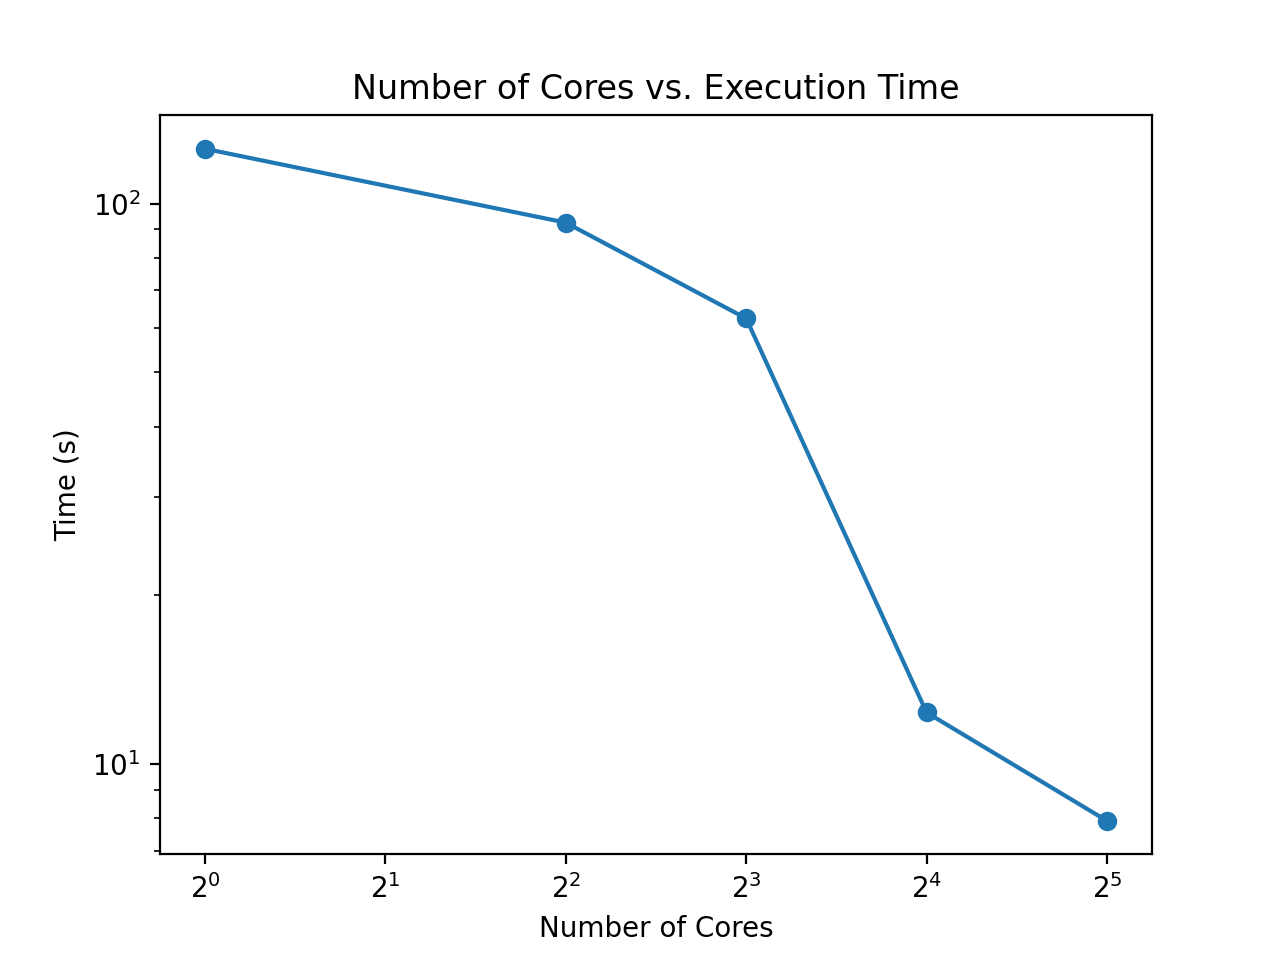
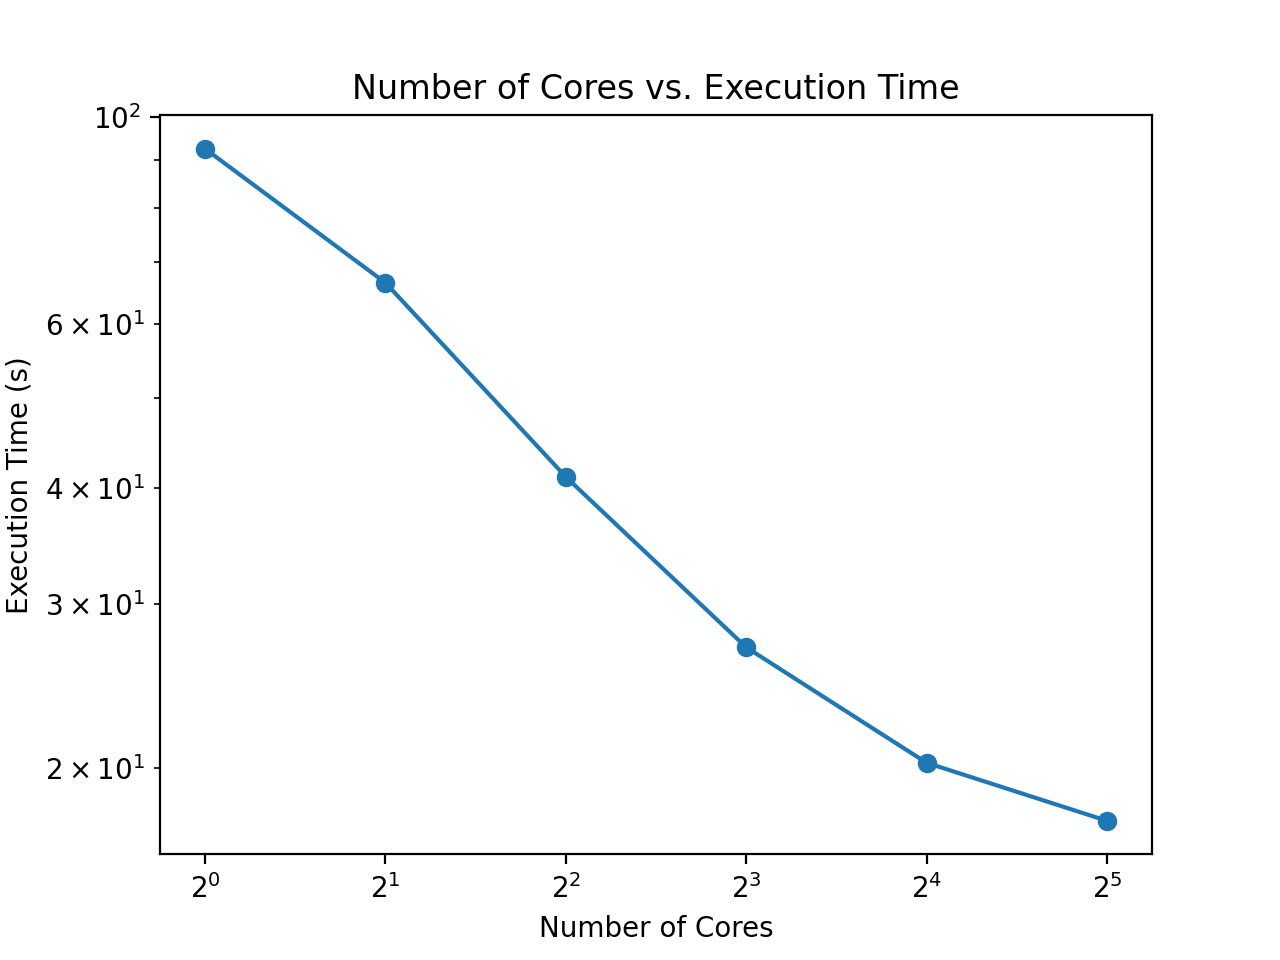
replace Counter __add__ w/ update, new results

diff --git a/mapReduce.py b/mapReduce.py
@@ -24,17 +24,25 @@ def mapper(doc, stop_words):
     return Counter([word.lower() for word in re.findall(r'[A-Za-z]{3,}', doc) if word.lower() not in stop_words])
 
 def reducer(count1, count2):
-    return count1 + count2
+    # return count1 + count2
+    # __add__ operations for Counter objects are slow because they include additional checks for negative elements
+    count1.update(count2)
+    return count1
 
 @timing
 def mapReduce(news_groups, mapper, reducer, num_cores):
+    # not really necessary, but saves threading overhead in the case of 1 core
+    if num_cores == 1:
+        mapped = map(mapper, news_groups)
+        return reduce(reducer, mapped)
     with mp.Pool(num_cores) as pool:
-        mapped = pool.map(mapper, news_groups['data'])
+        mapped = pool.map(mapper, news_groups)
         reduced = reduce(reducer, pool.map(partial(reduce, reducer), np.array_split(mapped, pool._processes)))
     return reduced
 
 def main(num_cores):
-    news_groups = fetch_20newsgroups(data_home='.', subset='all')
+    # multiply by some constant to magnify interval containing results
+    news_groups = fetch_20newsgroups(data_home='.', subset='all')['data'] * 10
     # nltk.download('stopwords', '.')
     stop_words = stopwords.words('english', '.')
     res = mapReduce(news_groups, partial(mapper, stop_words=stop_words), reducer, num_cores)

diff --git a/plot.py b/plot.py
@@ -1,9 +1,9 @@
 import matplotlib.pyplot as plt
 
-core_times = [(1, 125.26), (4, 92.48), (8, 62.39), (16, 12.36), (32, 7.92)]
+core_times = [(1, 92.55), (2, 66.44), (4, 41.11), (8, 26.97), (16, 20.27), (32, 17.56)]
 
 plt.loglog(*zip(*core_times), marker='o', basex=2)
 plt.xlabel('Number of Cores')
-plt.ylabel('Time (s)')
+plt.ylabel('Execution Time (s)')
 plt.title('Number of Cores vs. Execution Time')
 plt.show()
